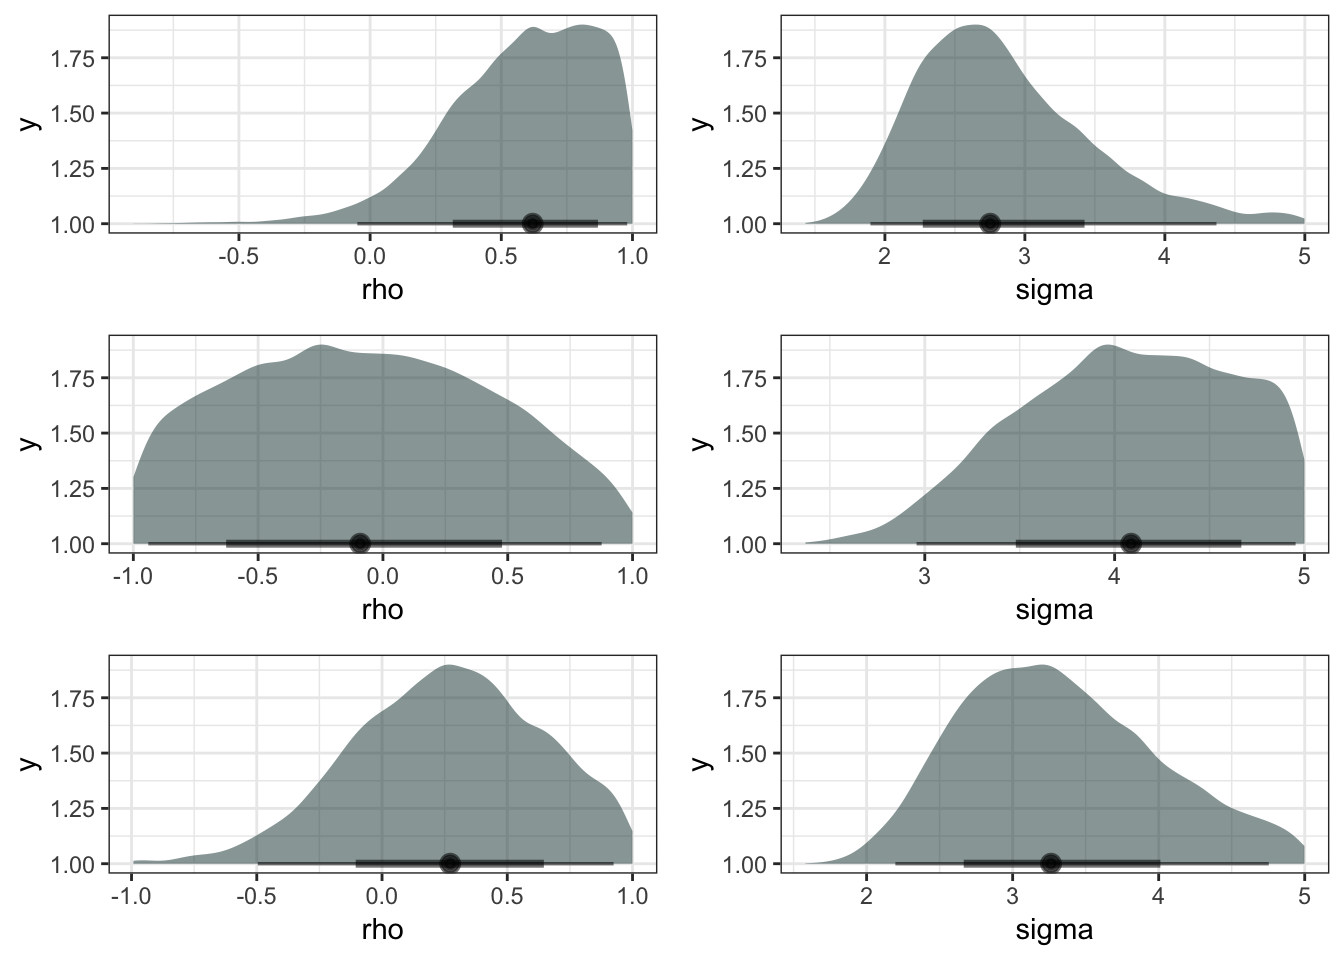
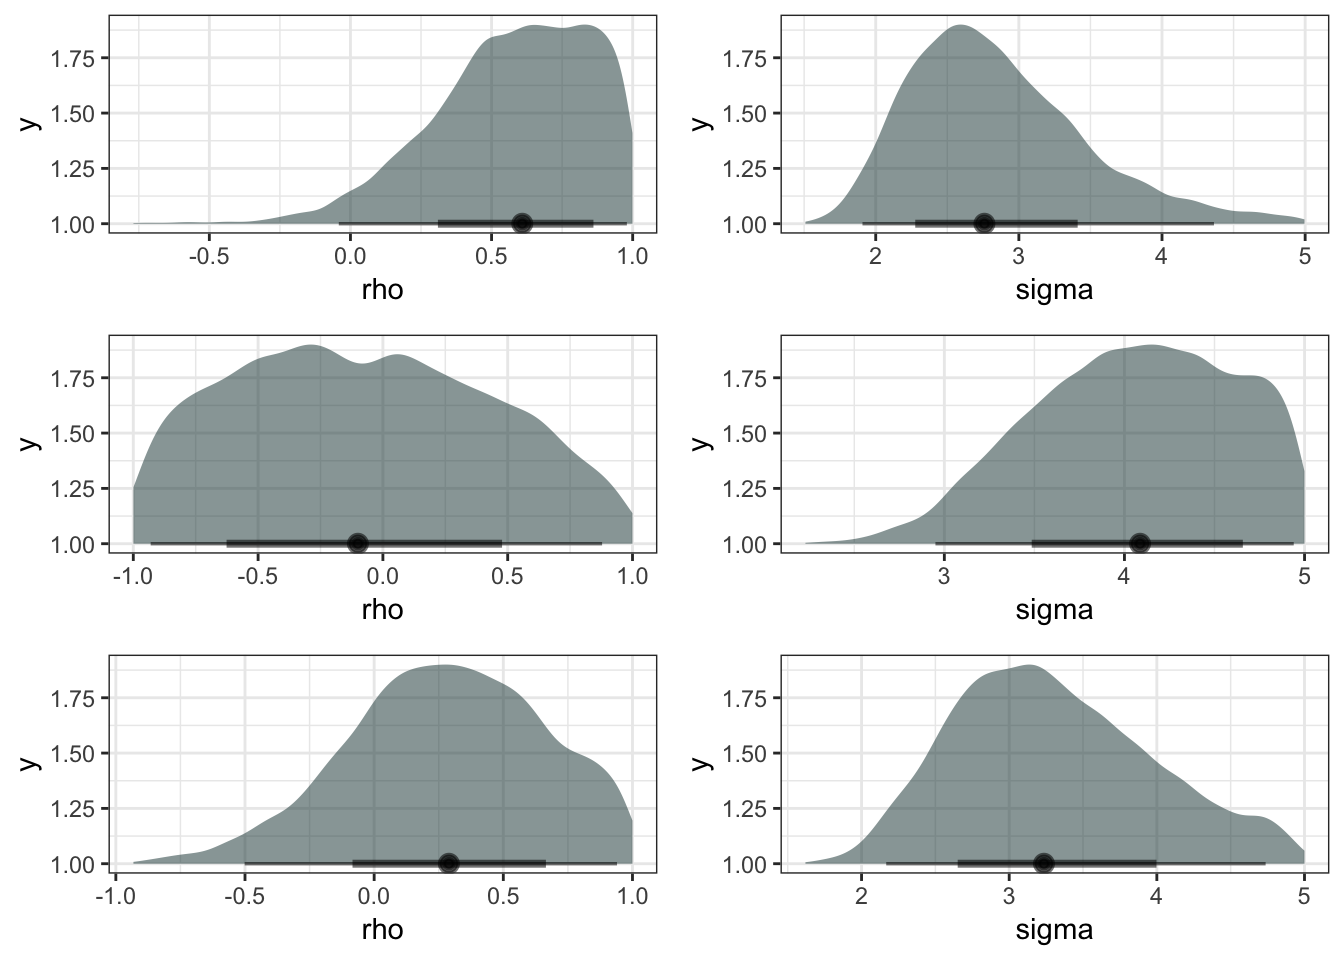
# stan ac 19 fix2

diff --git a/content/post/2018-12-19-adventcalender-stan19.html b/content/post/2018-12-19-adventcalender-stan19.html
@@ -124,7 +124,7 @@ dat %&gt;% group_by(subject,treatment)%&gt;%
 　　</p>
 <div class="section level3">
 <h3>変化点検出モデル</h3>
-<p>各フェーズ<span class="math inline">\(p\)</span>(ベースライン期 or 介入期)における初めの観測値<span class="math inline">\(y_{p1}\)</span>が、平均<span class="math inline">\(\hat{y}_{p1}\)</span>,標準偏差<span class="math inline">\(\sigma^2_{\epsilon}\)</span>の正規分布に従うとします。</p>
+<p>各フェーズ<span class="math inline">\(p\)</span>(ベースライン期 or 介入期)における初めの観測値<span class="math inline">\(y_{p1}\)</span>が、平均<span class="math inline">\(\hat{y}_{p1}\)</span>,分散<span class="math inline">\(\sigma^2_{\epsilon}\)</span>の正規分布に従うとします。</p>
 <p><span class="math display">\[y_{p1}\sim normal(\hat{y}_{p1},\sigma^2_\epsilon).\]</span></p>
 <p>そして、以降の時点<span class="math inline">\(t\)</span>におけるアウトカムの予測値は、</p>
 <p><span class="math display">\[y_{pt}|H_{pt-1}, \Theta \sim normal(\hat{y}_{pt|(pt-1)},\sigma^2_e),\]</span></p>
@@ -368,9 +368,9 @@ fit %&gt;% map(pi_table) %&gt;% bind_rows() %&gt;% mutate(subject=rep(c(5,7,9),e
 <tbody>
 <tr class="odd">
 <td align="left">es</td>
-<td align="right">-6.76</td>
-<td align="right">-10.07</td>
-<td align="right">-3.70</td>
+<td align="right">-6.77</td>
+<td align="right">-10.15</td>
+<td align="right">-3.64</td>
 <td align="right">0.95</td>
 <td align="left">median</td>
 <td align="left">hdi</td>
@@ -378,9 +378,9 @@ fit %&gt;% map(pi_table) %&gt;% bind_rows() %&gt;% mutate(subject=rep(c(5,7,9),e
 </tr>
 <tr class="even">
 <td align="left">mu1</td>
-<td align="right">41.69</td>
-<td align="right">39.43</td>
-<td align="right">44.06</td>
+<td align="right">41.67</td>
+<td align="right">39.39</td>
+<td align="right">44.14</td>
 <td align="right">0.95</td>
 <td align="left">median</td>
 <td align="left">hdi</td>
@@ -388,9 +388,9 @@ fit %&gt;% map(pi_table) %&gt;% bind_rows() %&gt;% mutate(subject=rep(c(5,7,9),e
 </tr>
 <tr class="odd">
 <td align="left">mu2</td>
-<td align="right">22.71</td>
-<td align="right">18.42</td>
-<td align="right">28.44</td>
+<td align="right">22.69</td>
+<td align="right">18.65</td>
+<td align="right">28.53</td>
 <td align="right">0.95</td>
 <td align="left">median</td>
 <td align="left">hdi</td>
@@ -398,8 +398,8 @@ fit %&gt;% map(pi_table) %&gt;% bind_rows() %&gt;% mutate(subject=rep(c(5,7,9),e
 </tr>
 <tr class="even">
 <td align="left">rho</td>
-<td align="right">0.62</td>
-<td align="right">0.08</td>
+<td align="right">0.61</td>
+<td align="right">0.07</td>
 <td align="right">1.00</td>
 <td align="right">0.95</td>
 <td align="left">median</td>
@@ -408,9 +408,9 @@ fit %&gt;% map(pi_table) %&gt;% bind_rows() %&gt;% mutate(subject=rep(c(5,7,9),e
 </tr>
 <tr class="odd">
 <td align="left">sigma</td>
-<td align="right">2.75</td>
+<td align="right">2.76</td>
 <td align="right">1.79</td>
-<td align="right">4.18</td>
+<td align="right">4.14</td>
 <td align="right">0.95</td>
 <td align="left">median</td>
 <td align="left">hdi</td>
@@ -418,9 +418,9 @@ fit %&gt;% map(pi_table) %&gt;% bind_rows() %&gt;% mutate(subject=rep(c(5,7,9),e
 </tr>
 <tr class="even">
 <td align="left">es</td>
-<td align="right">-2.89</td>
-<td align="right">-4.55</td>
-<td align="right">-1.32</td>
+<td align="right">-2.91</td>
+<td align="right">-4.51</td>
+<td align="right">-1.31</td>
 <td align="right">0.95</td>
 <td align="left">median</td>
 <td align="left">hdi</td>
@@ -428,9 +428,9 @@ fit %&gt;% map(pi_table) %&gt;% bind_rows() %&gt;% mutate(subject=rep(c(5,7,9),e
 </tr>
 <tr class="odd">
 <td align="left">mu1</td>
-<td align="right">40.31</td>
-<td align="right">37.79</td>
-<td align="right">43.11</td>
+<td align="right">40.26</td>
+<td align="right">37.67</td>
+<td align="right">42.99</td>
 <td align="right">0.95</td>
 <td align="left">median</td>
 <td align="left">hdi</td>
@@ -438,9 +438,9 @@ fit %&gt;% map(pi_table) %&gt;% bind_rows() %&gt;% mutate(subject=rep(c(5,7,9),e
 </tr>
 <tr class="even">
 <td align="left">mu2</td>
-<td align="right">28.82</td>
-<td align="right">22.96</td>
-<td align="right">34.05</td>
+<td align="right">28.76</td>
+<td align="right">22.76</td>
+<td align="right">34.10</td>
 <td align="right">0.95</td>
 <td align="left">median</td>
 <td align="left">hdi</td>
@@ -448,8 +448,8 @@ fit %&gt;% map(pi_table) %&gt;% bind_rows() %&gt;% mutate(subject=rep(c(5,7,9),e
 </tr>
 <tr class="odd">
 <td align="left">rho</td>
-<td align="right">-0.09</td>
-<td align="right">-1.00</td>
+<td align="right">-0.10</td>
+<td align="right">-0.99</td>
 <td align="right">0.79</td>
 <td align="right">0.95</td>
 <td align="left">median</td>
@@ -468,9 +468,9 @@ fit %&gt;% map(pi_table) %&gt;% bind_rows() %&gt;% mutate(subject=rep(c(5,7,9),e
 </tr>
 <tr class="odd">
 <td align="left">es</td>
-<td align="right">-4.37</td>
-<td align="right">-6.94</td>
-<td align="right">-2.00</td>
+<td align="right">-4.34</td>
+<td align="right">-7.08</td>
+<td align="right">-1.72</td>
 <td align="right">0.95</td>
 <td align="left">median</td>
 <td align="left">hdi</td>
@@ -478,9 +478,9 @@ fit %&gt;% map(pi_table) %&gt;% bind_rows() %&gt;% mutate(subject=rep(c(5,7,9),e
 </tr>
 <tr class="even">
 <td align="left">mu1</td>
-<td align="right">39.35</td>
-<td align="right">35.97</td>
-<td align="right">42.39</td>
+<td align="right">39.30</td>
+<td align="right">36.14</td>
+<td align="right">42.50</td>
 <td align="right">0.95</td>
 <td align="left">median</td>
 <td align="left">hdi</td>
@@ -488,9 +488,9 @@ fit %&gt;% map(pi_table) %&gt;% bind_rows() %&gt;% mutate(subject=rep(c(5,7,9),e
 </tr>
 <tr class="odd">
 <td align="left">mu2</td>
-<td align="right">25.00</td>
-<td align="right">21.13</td>
-<td align="right">30.16</td>
+<td align="right">25.07</td>
+<td align="right">21.50</td>
+<td align="right">31.16</td>
 <td align="right">0.95</td>
 <td align="left">median</td>
 <td align="left">hdi</td>
@@ -498,9 +498,9 @@ fit %&gt;% map(pi_table) %&gt;% bind_rows() %&gt;% mutate(subject=rep(c(5,7,9),e
 </tr>
 <tr class="even">
 <td align="left">rho</td>
-<td align="right">0.27</td>
+<td align="right">0.29</td>
 <td align="right">-0.38</td>
-<td align="right">0.99</td>
+<td align="right">1.00</td>
 <td align="right">0.95</td>
 <td align="left">median</td>
 <td align="left">hdi</td>
@@ -508,9 +508,9 @@ fit %&gt;% map(pi_table) %&gt;% bind_rows() %&gt;% mutate(subject=rep(c(5,7,9),e
 </tr>
 <tr class="odd">
 <td align="left">sigma</td>
-<td align="right">3.26</td>
-<td align="right">2.22</td>
-<td align="right">4.77</td>
+<td align="right">3.24</td>
+<td align="right">2.16</td>
+<td align="right">4.72</td>
 <td align="right">0.95</td>
 <td align="left">median</td>
 <td align="left">hdi</td>

diff --git a/docs/2018/12/19/tidybayes/index.html b/docs/2018/12/19/tidybayes/index.html
@@ -184,7 +184,7 @@ dat %&gt;% group_by(subject,treatment)%&gt;%
 　　</p>
 <div class="section level3">
 <h3>変化点検出モデル</h3>
-<p>各フェーズ<span class="math inline">\(p\)</span>(ベースライン期 or 介入期)における初めの観測値<span class="math inline">\(y_{p1}\)</span>が、平均<span class="math inline">\(\hat{y}_{p1}\)</span>,標準偏差<span class="math inline">\(\sigma^2_{\epsilon}\)</span>の正規分布に従うとします。</p>
+<p>各フェーズ<span class="math inline">\(p\)</span>(ベースライン期 or 介入期)における初めの観測値<span class="math inline">\(y_{p1}\)</span>が、平均<span class="math inline">\(\hat{y}_{p1}\)</span>,分散<span class="math inline">\(\sigma^2_{\epsilon}\)</span>の正規分布に従うとします。</p>
 <p><span class="math display">\[y_{p1}\sim normal(\hat{y}_{p1},\sigma^2_\epsilon).\]</span></p>
 <p>そして、以降の時点<span class="math inline">\(t\)</span>におけるアウトカムの予測値は、</p>
 <p><span class="math display">\[y_{pt}|H_{pt-1}, \Theta \sim normal(\hat{y}_{pt|(pt-1)},\sigma^2_e),\]</span></p>
@@ -428,9 +428,9 @@ fit %&gt;% map(pi_table) %&gt;% bind_rows() %&gt;% mutate(subject=rep(c(5,7,9),e
 <tbody>
 <tr class="odd">
 <td align="left">es</td>
-<td align="right">-6.76</td>
-<td align="right">-10.07</td>
-<td align="right">-3.70</td>
+<td align="right">-6.77</td>
+<td align="right">-10.15</td>
+<td align="right">-3.64</td>
 <td align="right">0.95</td>
 <td align="left">median</td>
 <td align="left">hdi</td>
@@ -438,9 +438,9 @@ fit %&gt;% map(pi_table) %&gt;% bind_rows() %&gt;% mutate(subject=rep(c(5,7,9),e
 </tr>
 <tr class="even">
 <td align="left">mu1</td>
-<td align="right">41.69</td>
-<td align="right">39.43</td>
-<td align="right">44.06</td>
+<td align="right">41.67</td>
+<td align="right">39.39</td>
+<td align="right">44.14</td>
 <td align="right">0.95</td>
 <td align="left">median</td>
 <td align="left">hdi</td>
@@ -448,9 +448,9 @@ fit %&gt;% map(pi_table) %&gt;% bind_rows() %&gt;% mutate(subject=rep(c(5,7,9),e
 </tr>
 <tr class="odd">
 <td align="left">mu2</td>
-<td align="right">22.71</td>
-<td align="right">18.42</td>
-<td align="right">28.44</td>
+<td align="right">22.69</td>
+<td align="right">18.65</td>
+<td align="right">28.53</td>
 <td align="right">0.95</td>
 <td align="left">median</td>
 <td align="left">hdi</td>
@@ -458,8 +458,8 @@ fit %&gt;% map(pi_table) %&gt;% bind_rows() %&gt;% mutate(subject=rep(c(5,7,9),e
 </tr>
 <tr class="even">
 <td align="left">rho</td>
-<td align="right">0.62</td>
-<td align="right">0.08</td>
+<td align="right">0.61</td>
+<td align="right">0.07</td>
 <td align="right">1.00</td>
 <td align="right">0.95</td>
 <td align="left">median</td>
@@ -468,9 +468,9 @@ fit %&gt;% map(pi_table) %&gt;% bind_rows() %&gt;% mutate(subject=rep(c(5,7,9),e
 </tr>
 <tr class="odd">
 <td align="left">sigma</td>
-<td align="right">2.75</td>
+<td align="right">2.76</td>
 <td align="right">1.79</td>
-<td align="right">4.18</td>
+<td align="right">4.14</td>
 <td align="right">0.95</td>
 <td align="left">median</td>
 <td align="left">hdi</td>
@@ -478,9 +478,9 @@ fit %&gt;% map(pi_table) %&gt;% bind_rows() %&gt;% mutate(subject=rep(c(5,7,9),e
 </tr>
 <tr class="even">
 <td align="left">es</td>
-<td align="right">-2.89</td>
-<td align="right">-4.55</td>
-<td align="right">-1.32</td>
+<td align="right">-2.91</td>
+<td align="right">-4.51</td>
+<td align="right">-1.31</td>
 <td align="right">0.95</td>
 <td align="left">median</td>
 <td align="left">hdi</td>
@@ -488,9 +488,9 @@ fit %&gt;% map(pi_table) %&gt;% bind_rows() %&gt;% mutate(subject=rep(c(5,7,9),e
 </tr>
 <tr class="odd">
 <td align="left">mu1</td>
-<td align="right">40.31</td>
-<td align="right">37.79</td>
-<td align="right">43.11</td>
+<td align="right">40.26</td>
+<td align="right">37.67</td>
+<td align="right">42.99</td>
 <td align="right">0.95</td>
 <td align="left">median</td>
 <td align="left">hdi</td>
@@ -498,9 +498,9 @@ fit %&gt;% map(pi_table) %&gt;% bind_rows() %&gt;% mutate(subject=rep(c(5,7,9),e
 </tr>
 <tr class="even">
 <td align="left">mu2</td>
-<td align="right">28.82</td>
-<td align="right">22.96</td>
-<td align="right">34.05</td>
+<td align="right">28.76</td>
+<td align="right">22.76</td>
+<td align="right">34.10</td>
 <td align="right">0.95</td>
 <td align="left">median</td>
 <td align="left">hdi</td>
@@ -508,8 +508,8 @@ fit %&gt;% map(pi_table) %&gt;% bind_rows() %&gt;% mutate(subject=rep(c(5,7,9),e
 </tr>
 <tr class="odd">
 <td align="left">rho</td>
-<td align="right">-0.09</td>
-<td align="right">-1.00</td>
+<td align="right">-0.10</td>
+<td align="right">-0.99</td>
 <td align="right">0.79</td>
 <td align="right">0.95</td>
 <td align="left">median</td>
@@ -528,9 +528,9 @@ fit %&gt;% map(pi_table) %&gt;% bind_rows() %&gt;% mutate(subject=rep(c(5,7,9),e
 </tr>
 <tr class="odd">
 <td align="left">es</td>
-<td align="right">-4.37</td>
-<td align="right">-6.94</td>
-<td align="right">-2.00</td>
+<td align="right">-4.34</td>
+<td align="right">-7.08</td>
+<td align="right">-1.72</td>
 <td align="right">0.95</td>
 <td align="left">median</td>
 <td align="left">hdi</td>
@@ -538,9 +538,9 @@ fit %&gt;% map(pi_table) %&gt;% bind_rows() %&gt;% mutate(subject=rep(c(5,7,9),e
 </tr>
 <tr class="even">
 <td align="left">mu1</td>
-<td align="right">39.35</td>
-<td align="right">35.97</td>
-<td align="right">42.39</td>
+<td align="right">39.30</td>
+<td align="right">36.14</td>
+<td align="right">42.50</td>
 <td align="right">0.95</td>
 <td align="left">median</td>
 <td align="left">hdi</td>
@@ -548,9 +548,9 @@ fit %&gt;% map(pi_table) %&gt;% bind_rows() %&gt;% mutate(subject=rep(c(5,7,9),e
 </tr>
 <tr class="odd">
 <td align="left">mu2</td>
-<td align="right">25.00</td>
-<td align="right">21.13</td>
-<td align="right">30.16</td>
+<td align="right">25.07</td>
+<td align="right">21.50</td>
+<td align="right">31.16</td>
 <td align="right">0.95</td>
 <td align="left">median</td>
 <td align="left">hdi</td>
@@ -558,9 +558,9 @@ fit %&gt;% map(pi_table) %&gt;% bind_rows() %&gt;% mutate(subject=rep(c(5,7,9),e
 </tr>
 <tr class="even">
 <td align="left">rho</td>
-<td align="right">0.27</td>
+<td align="right">0.29</td>
 <td align="right">-0.38</td>
-<td align="right">0.99</td>
+<td align="right">1.00</td>
 <td align="right">0.95</td>
 <td align="left">median</td>
 <td align="left">hdi</td>
@@ -568,9 +568,9 @@ fit %&gt;% map(pi_table) %&gt;% bind_rows() %&gt;% mutate(subject=rep(c(5,7,9),e
 </tr>
 <tr class="odd">
 <td align="left">sigma</td>
-<td align="right">3.26</td>
-<td align="right">2.22</td>
-<td align="right">4.77</td>
+<td align="right">3.24</td>
+<td align="right">2.16</td>
+<td align="right">4.72</td>
 <td align="right">0.95</td>
 <td align="left">median</td>
 <td align="left">hdi</td>
